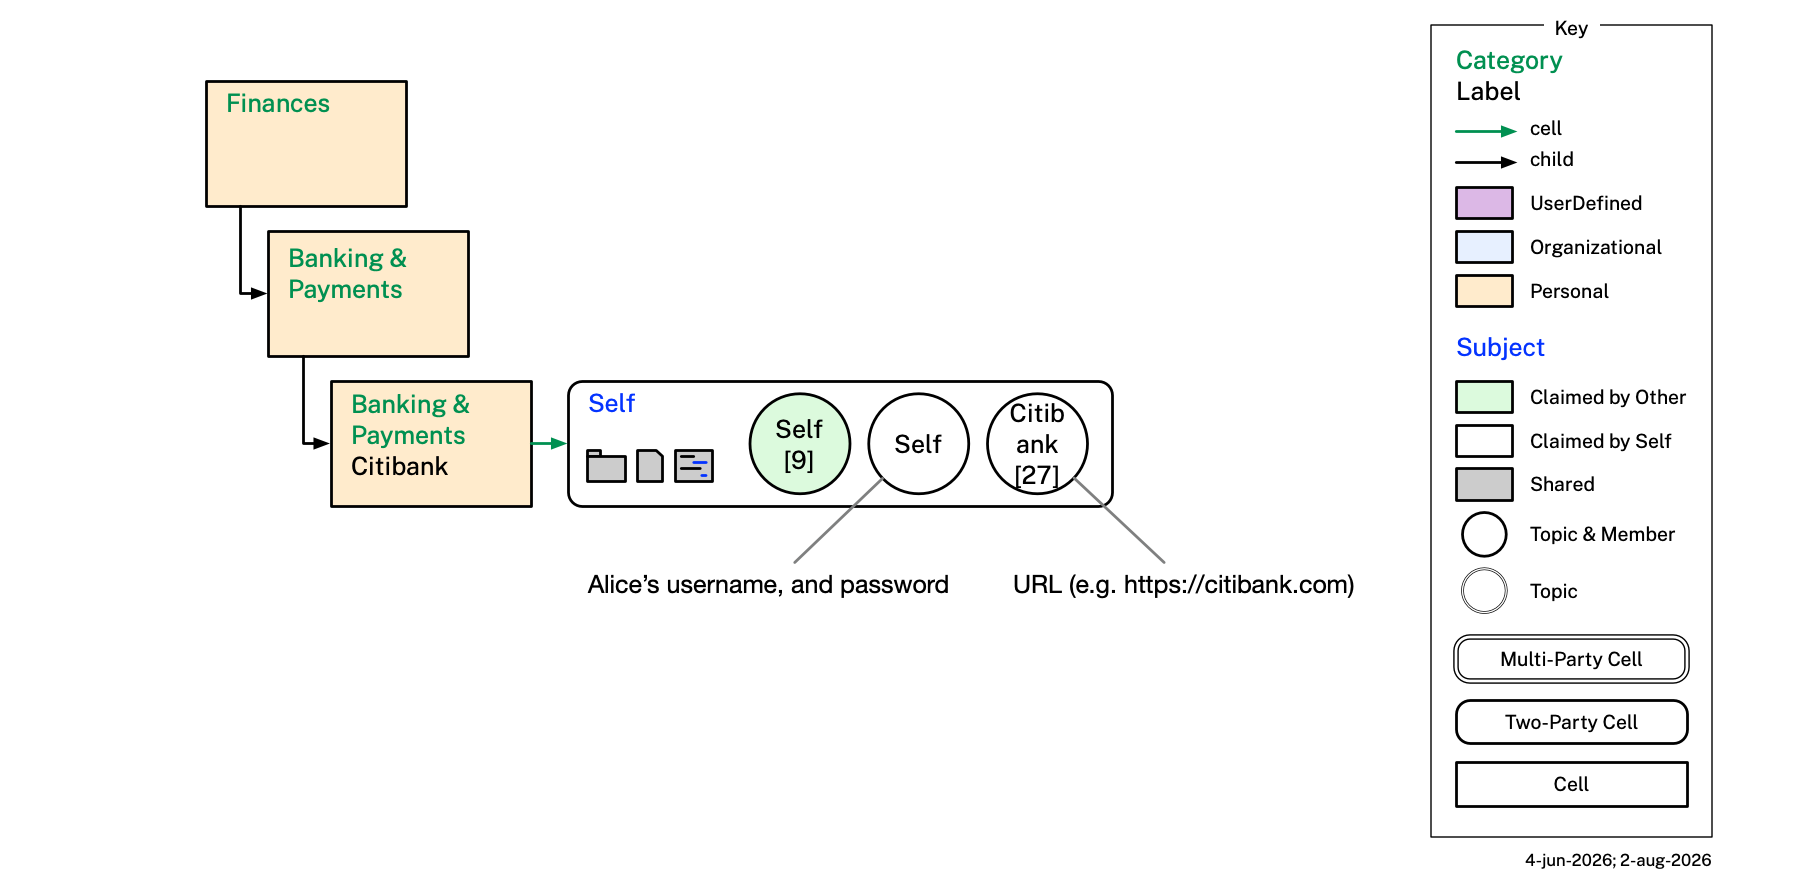
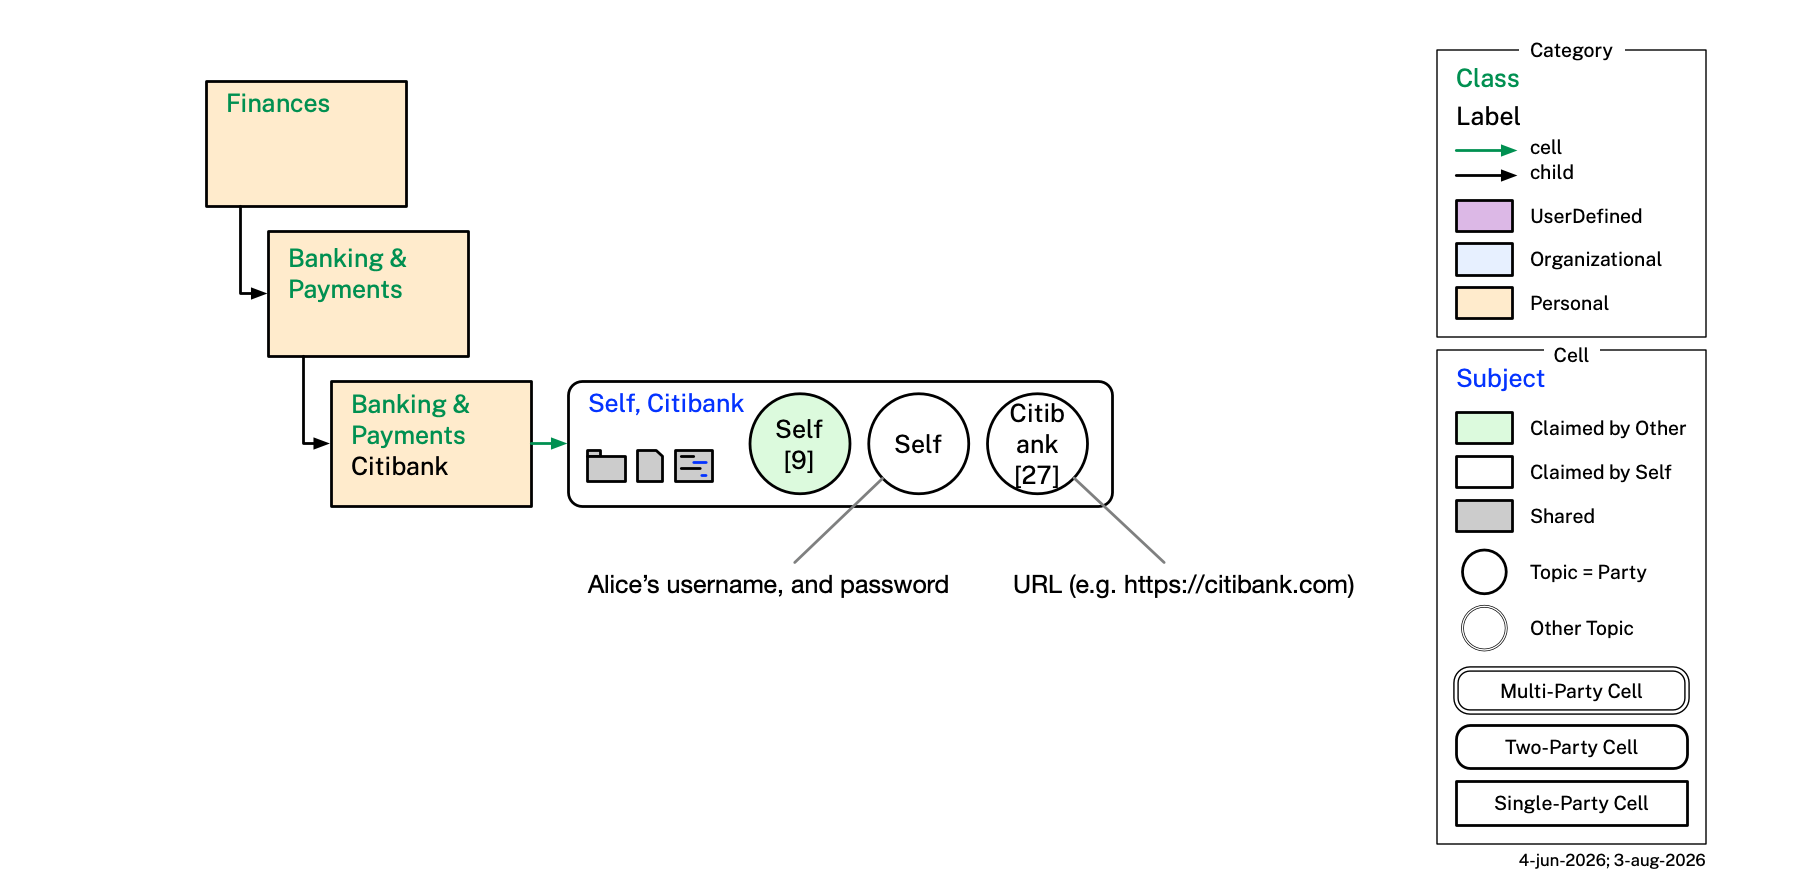
Add Fred Flintstone cell and Subject-annotation integrity check
Fill the missing Fred Flintstone cell shown in people.png (Check 10a):
a cell:TwoParty category/cell in example/categories/People/Others/,
with two new topics (#29 Alice's own topic, #31 Fred's self-claimed
persona claimed via PDN) and their generated diagrams. Update the
Others category's child list and README's topic tables to match.

Add Check 10g to CLAUDE.md verifying a diagram's blue "Subject"
annotation matches the associated cell's mia.subject value(s),
per the finances.png/Citibank fix earlier in this session.

Changed region(s): [[0.7782, 0.0306, 0.965, 1.0], [0.3735, 0.4281, 0.4047, 0.4892]]

diff --git a/README.md b/README.md
@@ -414,7 +414,9 @@ Topic file metadata (claimant, subject) is declared in YAML frontmatter. `topic-
 
 The Persona ontology defines a formal, machine-readable model of a person. It is used by triples stored in `t:TopicGraph` instances. 
 
-We represent a person with the `p:Person` class — a Mia-specific subclass of CCO `Person` (`cco:ont00001262`).  The Mia user's own `p:Person` individual always uses the IRI `:Self` across all of their cell's topic files; other people, groups, and organizations are assigned locally-minted named IRIs (e.g. `:Bob_Johnson`). `:Self`'s type declaration (`rdf:type owl:NamedIndividual, persona:Person`) is asserted in `example/topics/self.ttl` (see the [Validation](#validation) section for how `self.ttl` is merged in alongside topic data). These topic files, referenced by cells, function as *named-graph slices* — each is an independent facet of an identity in a specific relationship or institutional topic, carrying the claims relevant to that topic: names, addresses, phone numbers, SSNs, physical characteristics, parent-child relationships, social connections, payment cards, and more. The Persona ontology reuses existing well-known ontologies wherever possible and defines new terms only where no suitable existing term exists.
+We represent a person with the `p:Person` class — a Mia-specific subclass of CCO `Person` (`cco:ont00001262`).  The Mia user's own `p:Person` individual always uses the IRI `:Self` across all of their cell's topic files; other people, groups, and organizations are assigned locally-minted named IRIs (e.g. `:Bob_Johnson`). `:Self`'s type declaration (`rdf:type owl:NamedIndividual, persona:Person`) is asserted in `example/topics/self.ttl` (see the [Validation](#validation) section for how `self.ttl` is merged in alongside topic DataBooks). 
+
+The persona ontology is used to describe the contents of **topic graphs** of **cells** (see [Cell Ontology](#cell-ontology) and [Topic Ontology](#topic-ontology)). These topic graphs, when describing people, function as *named-graph slices* — each is an independent facet of an identity in a specific cell context, carrying the claims relevant to that topic: names, addresses, phone numbers, SSNs, physical characteristics, parent-child relationships, social connections, payment cards, and more. The Persona ontology reuses existing well-known ontologies wherever possible and defines new terms only where no suitable existing term exists.
 
 <p align="center"><img src="images/persona-ontology/persona.png" alt="Persona model"></p>
 
@@ -720,6 +722,7 @@ The topics in the table below are *about* Alice and claimed *by* Alice. All `.da
 | 22 | [self.self(ownership)(22)](example/topics/self.self(ownership)(22).databook.md)     | Ownership  | Wallet (driver's license + payment card); health ins., SSN card  | [view](example/topics/images/self.self(ownership)(22).png) |
 | 23 | [self.self(social-security-administration)(federal)(23)](example/topics/self.self(social-security-administration)(federal)(23).databook.md)                     | Federal      | Social security number (SSN)                                     | [view](example/topics/images/self.self(social-security-administration)(federal)(23).png) |
 | 24 | [self.self(texas-vital-records)(state)(24)](example/topics/self.self(texas-vital-records)(state)(24).databook.md) | State        | Legal names, maiden name                                         | [view](example/topics/images/self.self(texas-vital-records)(state)(24).png) |
+| 29 | [self.self(fred-flintstone)(others)(29)](example/topics/self.self(fred-flintstone)(others)(29).databook.md)                     | Others       | Alice's 1:1 topic with Fred; social network with Fred as member  | [view](example/topics/images/self.self(fred-flintstone)(others)(29).png) |
 
 The following table lists topics that are *about* Alice but claimed by others.
 
@@ -744,6 +747,7 @@ The following table lists topics about other people (Paula and Bob) or groups (B
 | 28 | [carol-walker.carol-walker(alice-carol-about-mom)(health)(28)](example/topics/carol-walker.carol-walker(alice-carol-about-mom)(health)(28).databook.md) | Medical Appointment       | Carol's own self-claimed persona and contact info — one of this cell's two parties, alongside Alice (topic 30)           | [view](example/topics/images/carol-walker.carol-walker(alice-carol-about-mom)(health)(28).png) |
 | 30 | [self.self(alice-carol-about-mom)(health)(30)](example/topics/self.self(alice-carol-about-mom)(health)(30).databook.md) | Medical Appointment       | Alice's own self-claimed contact info — the other of this cell's two parties, alongside Carol (topic 28)           | [view](example/topics/images/self.self(alice-carol-about-mom)(health)(30).png) |
 | 27 | [citibank.self(citibank)(banking-payments)(27)](example/topics/citibank.self(citibank)(banking-payments)(27).databook.md) | Banking & Payments Firms | Alice's own self-claimed notes about Citibank as an institution, alongside Citibank's own claimed record about her (topic 09) | [view](example/topics/images/citibank.self(citibank)(banking-payments)(27).png) |
+| 31 | [fred-flintstone.fred-flintstone(fred-flintstone)(others)(31)](example/topics/fred-flintstone.fred-flintstone(fred-flintstone)(others)(31).databook.md)                     | Others       | Fred's self-claimed Fred persona                                 | [view](example/topics/images/fred-flintstone.fred-flintstone(fred-flintstone)(others)(31).png) |
 
 
 

diff --git a/CLAUDE.md b/CLAUDE.md
@@ -314,6 +314,8 @@ If a mismatch is found, rename the file so its root matches the id local name (p
 
 - **10f — Cell box border style matches `mia.parties`**: Per the Key legend, a cell box is drawn with one of three border styles — a single border ("Cell"), a double border ("Two-Party Cell"), or a bold/double border ("Multi-Party Cell") — corresponding to `cell:OneParty`, `cell:TwoParty`, and `cell:ThreePlusParty` respectively. The border style shown for a cell box must match the actual `mia.parties` value of the cell DataBook associated with that box's category (via `mia.cell`). This is a visual check (no script) — e.g. `people2.png`'s "Dr. Jane" box is drawn with a single border ("Cell"), which must match `jane-kolpakova-cell.databook.md`'s `mia.parties: "cell:OneParty"`.
 
+- **10g — Blue "Subject" annotation matches `cell:subject`**: Per the Key legend's "Subject" entry, a cell box carries a blue "Subject" text annotation listing the name(s) of the resource(s) the cell's relationship is about, comma-separated when there are two. This text must list exactly the same value(s) — by name, not IRI — as the actual `mia.subject` value(s) of the cell DataBook associated with that box's category (via `mia.cell`), no more and no fewer. This is a visual check (no script) — e.g. `finances.png`'s "Banking & Payments / Citibank" box's Subject annotation reads "Self, Citibank", matching `citibank(banking-payments)-cell.databook.md`'s `mia.subject: [":Self", ":Citibank"]`.
+
 The 11 diagrams are: `example/images/people.png`, `example/images/people2.png`, `example/images/health.png`, `example/images/work.png`, `example/images/companies.png`, `example/images/finances.png`, `example/images/gov-state.png`, `example/images/gov-federal.png`, `example/images/gov-municipality.png`, `example/images/misc.png`, `example/images/affiliations.png`.
 
 **Check 11 — Physical folder structure mirrors the `child:` tree in `example/categories/`**: This check applies only to `example/categories/` — the user's own instance tree — since there is no longer a separate canonical-instance file tree to mirror (`categories-person/`/`categories-org/` were removed in category.ttl 1.8.0). The tree is organized as nested filesystem folders that mirror the category hierarchy, rather than one flat directory. Each category's own `category-databook` `.databook.md` file lives in a folder together with its associated cell DataBook(s) (folder naming is not standardized — it may be the category's `title`, a `catType`-prefixed disambiguator, or a role-based label; this check does not validate folder names, only nesting). The rule: for every `mia.child` link from category A to category B, B's `.databook.md` file must live in a folder that is a **direct subfolder** of the folder containing A's `.databook.md` file — not deeper, not a sibling, not the same folder. The tree's root DataBook (`categories.databook.md`) sits directly in the tree's top-level directory, alongside its associated `-cell` DataBook. A category's association with its cell(s) is recorded directly on the category, via its own `mia.cell` value(s) — `cell:Cell` has no property pointing back at all, so this is the only place the association is recorded. **The relationship is many-to-one (many cells may share one category), not 1:1** — the example tree currently shows only one cell per category, but that's incidental to the data, not a constraint; a category with two or more `mia.cell` values, each pointing at its own `-cell`-suffixed DataBook, is valid. Run:

diff --git a/example/topics/fred-flintstone.fred-flintstone(fred-flintstone)(others)(31).databook.md b/example/topics/fred-flintstone.fred-flintstone(fred-flintstone)(others)(31).databook.md
@@ -1,0 +1,65 @@
+---
+id: https://www.example.org/mia/topics/fred-flintstone.fred-flintstone(fred-flintstone)(others)(31)
+title: "About Fred Flintstone in the Others cell as claimed by Fred Flintstone"
+type: topic-databook
+version: 1.0.0
+created: 2026-08-03
+description: >
+  Fred Flintstone's self-claimed persona, received from Fred's Mia via PDN.
+  Records Fred's name and his social network connection to Alice.
+mia:
+  claimant: ":Fred_Flintstone"
+  subject: ":Fred_Flintstone"
+graph:
+  named_graph: https://www.example.org/mia/topics/fred-flintstone.fred-flintstone(fred-flintstone)(others)(31)#graph
+  rdf_version: "1.1"
+shapes:
+  - http://mee.foundation/ontologies/persona/shapes
+  - http://mee.foundation/ontologies/topic/shapes
+process:
+  transformer: human
+  timestamp: 2026-08-03T00:00:00Z
+  agent:
+    name: Paul Trevithick
+    role: author
+---
+
+## Overview
+
+This topic captures Fred Flintstone's self-claimed persona, transmitted from Fred's Mia to Alice's Mia over the PDN. It records Fred's name and his social network link to Alice.
+
+## Topic Graph
+
+```turtle
+<!-- databook:id: fred-fred-fred-topic-graph -->
+<!-- databook:graph: https://www.example.org/mia/topics/fred-flintstone.fred-flintstone(fred-flintstone)(others)(31)#graph -->
+@prefix : <http://www.example.org/mia#> .
+@prefix persona: <http://mee.foundation/ontologies/persona#> .
+@prefix cco: <https://purl.org/cco/> .
+@prefix owl: <http://www.w3.org/2002/07/owl#> .
+@prefix rdf: <http://www.w3.org/1999/02/22-rdf-syntax-ns#> .
+@prefix rdfs: <http://www.w3.org/2000/01/rdf-schema#> .
+
+:Fred_Flintstone rdf:type owl:NamedIndividual ,
+              persona:Person ;
+    rdfs:label "Fred Flintstone"@en ;
+    rdfs:comment "Fred Flintstone's self-claimed persona in his 1:1 relationship with Alice."@en ;
+
+    <https://purl.org/cco/ont00001879> [  # designated by → GivenName
+        rdf:type cco:ent00000002 ;  # GivenName
+        <https://purl.org/cco/ont00001765> "Fred"  # has text value
+    ] ;
+
+    <https://purl.org/cco/ont00001879> [  # designated by → FamilyName
+        rdf:type cco:ent00000004 ;  # FamilyName
+        <https://purl.org/cco/ont00001765> "Flintstone"  # has text value
+    ] ;
+
+    persona:hasSocialNetwork :Fred_Fred_Network .
+
+
+:Fred_Fred_Network rdf:type owl:NamedIndividual ,
+                          cco:ont00001183 ;  # Social Network
+    rdfs:label "Fred Flintstone's Alice connection"@en ;
+    <http://purl.obolibrary.org/obo/BFO_0000115> :Self .  # has member part → Alice
+```

diff --git a/example/topics/self.self(fred-flintstone)(others)(29).databook.md b/example/topics/self.self(fred-flintstone)(others)(29).databook.md
@@ -1,0 +1,67 @@
+---
+id: https://www.example.org/mia/topics/self.self(fred-flintstone)(others)(29)
+title: "About Alice Walker in the Others cell as claimed by Alice Walker"
+type: topic-databook
+version: 1.0.0
+created: 2026-08-03
+description: >
+  Alice Walker's self-claimed persona for her 1:1 relationship with Fred Flintstone.
+  Records the name and social network connection she shares with Fred.
+mia:
+  claimant: ":Self"
+  subject: ":Self"
+graph:
+  named_graph: https://www.example.org/mia/topics/self.self(fred-flintstone)(others)(29)#graph
+  rdf_version: "1.1"
+shapes:
+  - http://mee.foundation/ontologies/persona/shapes
+  - http://mee.foundation/ontologies/topic/shapes
+process:
+  transformer: human
+  timestamp: 2026-08-03T00:00:00Z
+  agent:
+    name: Paul Trevithick
+    role: author
+---
+
+## Overview
+
+This topic captures Alice Walker's self-claimed persona in her 1:1 relationship with Fred Flintstone. It records the name Alice presents to Fred and her social network link to him.
+
+## Topic Graph
+
+```turtle
+<!-- databook:id: alice-fred-alice-topic-graph -->
+<!-- databook:graph: https://www.example.org/mia/topics/self.self(fred-flintstone)(others)(29)#graph -->
+@prefix : <http://www.example.org/mia#> .
+@prefix persona: <http://mee.foundation/ontologies/persona#> .
+@prefix cco: <https://purl.org/cco/> .
+@prefix owl: <http://www.w3.org/2002/07/owl#> .
+@prefix rdf: <http://www.w3.org/1999/02/22-rdf-syntax-ns#> .
+@prefix rdfs: <http://www.w3.org/2000/01/rdf-schema#> .
+
+:Self rdfs:comment "Alice Walker's persona for her 1:1 relationship with Fred."@en ;
+
+    <https://purl.org/cco/ont00001879> [  # designated by → AlternateName
+        rdf:type cco:ent00000006 ;  # AlternateName
+        <https://purl.org/cco/ont00001765> "Alice Walker"
+    ] ;
+
+    <https://purl.org/cco/ont00001879> [  # designated by → GivenName
+        rdf:type cco:ent00000002 ;  # GivenName
+        <https://purl.org/cco/ont00001765> "Alice"  # has text value
+    ] ;
+
+    <https://purl.org/cco/ont00001879> [  # designated by → FamilyName
+        rdf:type cco:ent00000004 ;  # FamilyName
+        <https://purl.org/cco/ont00001765> "Walker"  # has text value
+    ] ;
+
+    persona:hasSocialNetwork :Alice_Fred_Network .
+
+
+:Alice_Fred_Network rdf:type owl:NamedIndividual ,
+                             cco:ont00001183 ;  # Social Network
+    rdfs:label "Alice Walker's Fred connection"@en ;
+    <http://purl.obolibrary.org/obo/BFO_0000115> :Fred_Flintstone .  # has member part
+```

diff --git a/example/categories/People/Others/others(people).databook.md b/example/categories/People/Others/others(people).databook.md
@@ -2,7 +2,7 @@
 id: http://www.example.org/mia/categories/others(people)
 title: "Others"
 type: category-databook
-version: 1.0.4
+version: 1.0.5
 created: 2026-07-08
 description: >
   Copy of a canonical category, per its cat:category value. See category.ttl and cell-templates.ttl for the class hierarchy and any template cell.
@@ -10,5 +10,7 @@ mia:
   catType: "Others"
   cell: "http://www.example.org/mia/categories/others(people)-cell"
   category: "cat:Others"
-  child: "http://www.example.org/mia/categories/bob-johnson(others)"
+  child:
+    - "http://www.example.org/mia/categories/bob-johnson(others)"
+    - "http://www.example.org/mia/categories/fred-flintstone(others)"
 ---

diff --git a/example/categories/People/Others/Fred Flintstone/fred-flintstone(others)-cell.databook.md b/example/categories/People/Others/Fred Flintstone/fred-flintstone(others)-cell.databook.md
@@ -1,0 +1,18 @@
+---
+id: http://www.example.org/mia/categories/fred-flintstone(others)-cell
+title: "Fred Flintstone (Cell)"
+type: cell-databook
+version: 1.0.1
+created: 2026-08-03
+description: >
+  Cell DataBook of category "Fred Flintstone" (mia.catType: Others). Content may include topics/folder/note links, and may carry one or two required subject values.
+mia:
+  creator: ":Self"
+  parties: "cell:TwoParty"
+  subject:
+    - ":Fred_Flintstone"
+    - ":Self"
+  partyTopics:
+    - "https://www.example.org/mia/topics/fred-flintstone.fred-flintstone(fred-flintstone)(others)(31)"
+    - "https://www.example.org/mia/topics/self.self(fred-flintstone)(others)(29)"
+---

diff --git a/example/categories/People/Others/Fred Flintstone/fred-flintstone(others).databook.md b/example/categories/People/Others/Fred Flintstone/fred-flintstone(others).databook.md
@@ -1,0 +1,13 @@
+---
+id: http://www.example.org/mia/categories/fred-flintstone(others)
+title: "Fred Flintstone"
+type: category-databook
+version: 1.0.0
+created: 2026-08-03
+description: >
+  Copy of a canonical category, per its cat:category value. See category.ttl and cell-templates.ttl for the class hierarchy and any template cell.
+mia:
+  catType: "Others"
+  cell: "http://www.example.org/mia/categories/fred-flintstone(others)-cell"
+  category: "cat:Others"
+---
